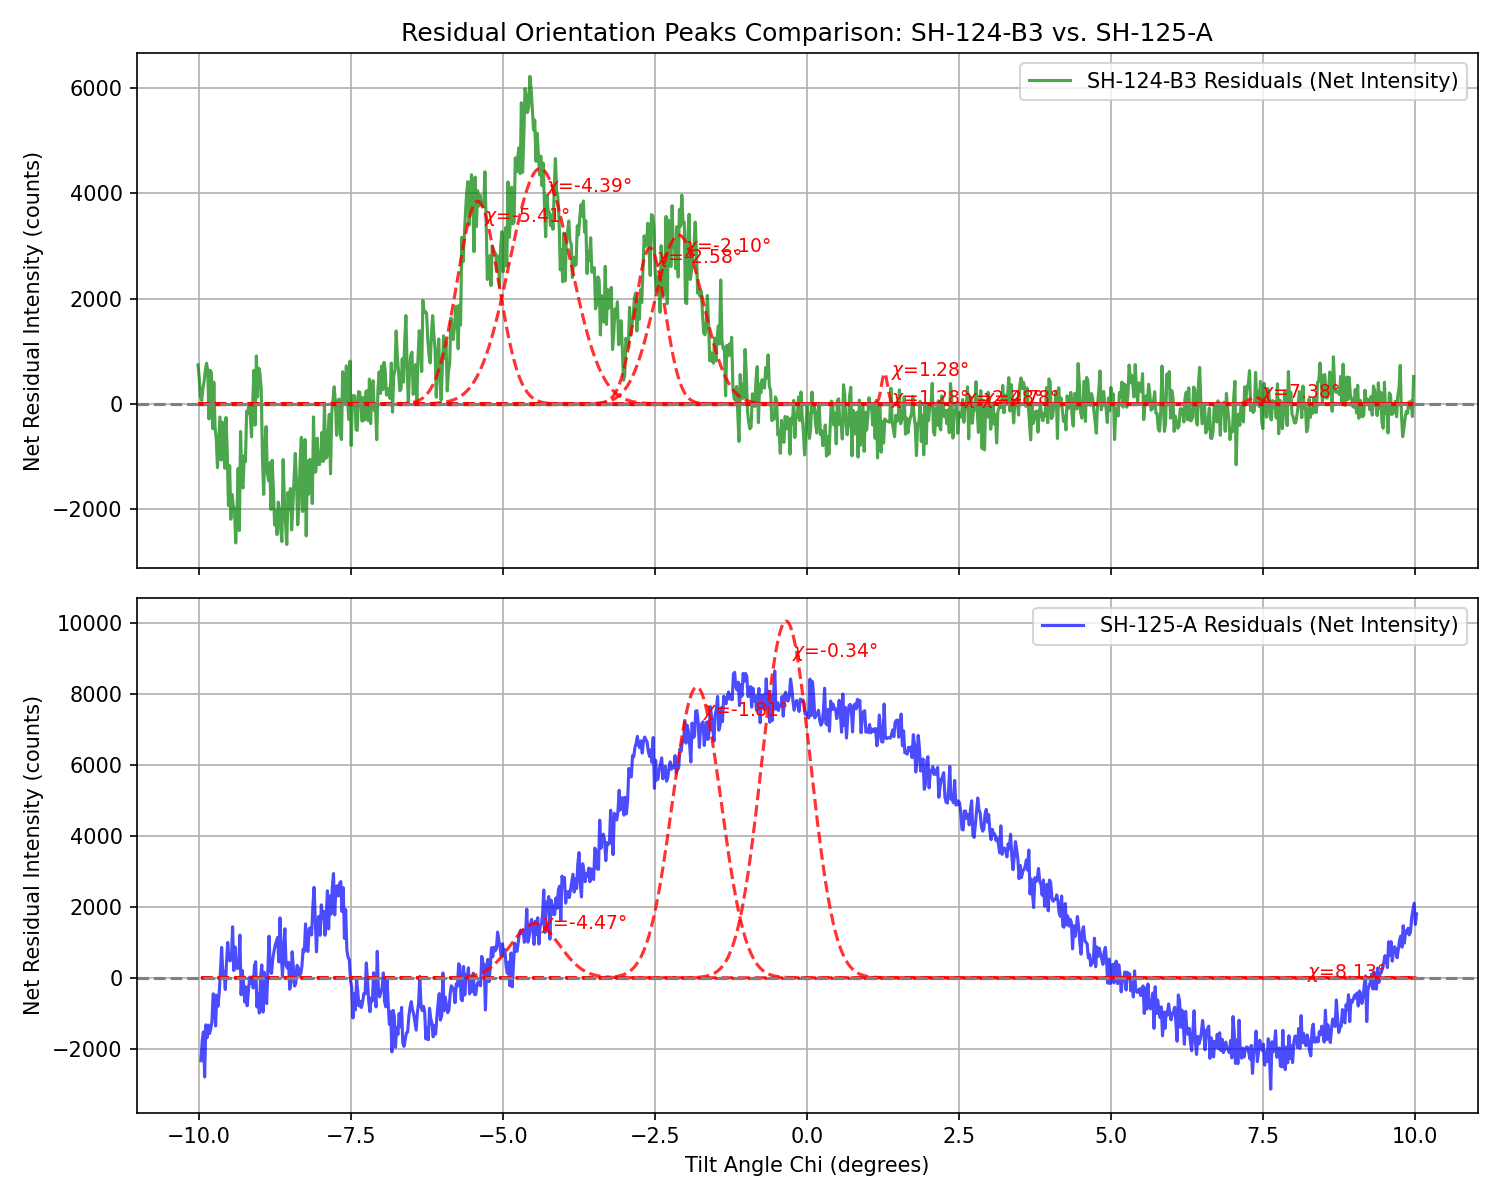
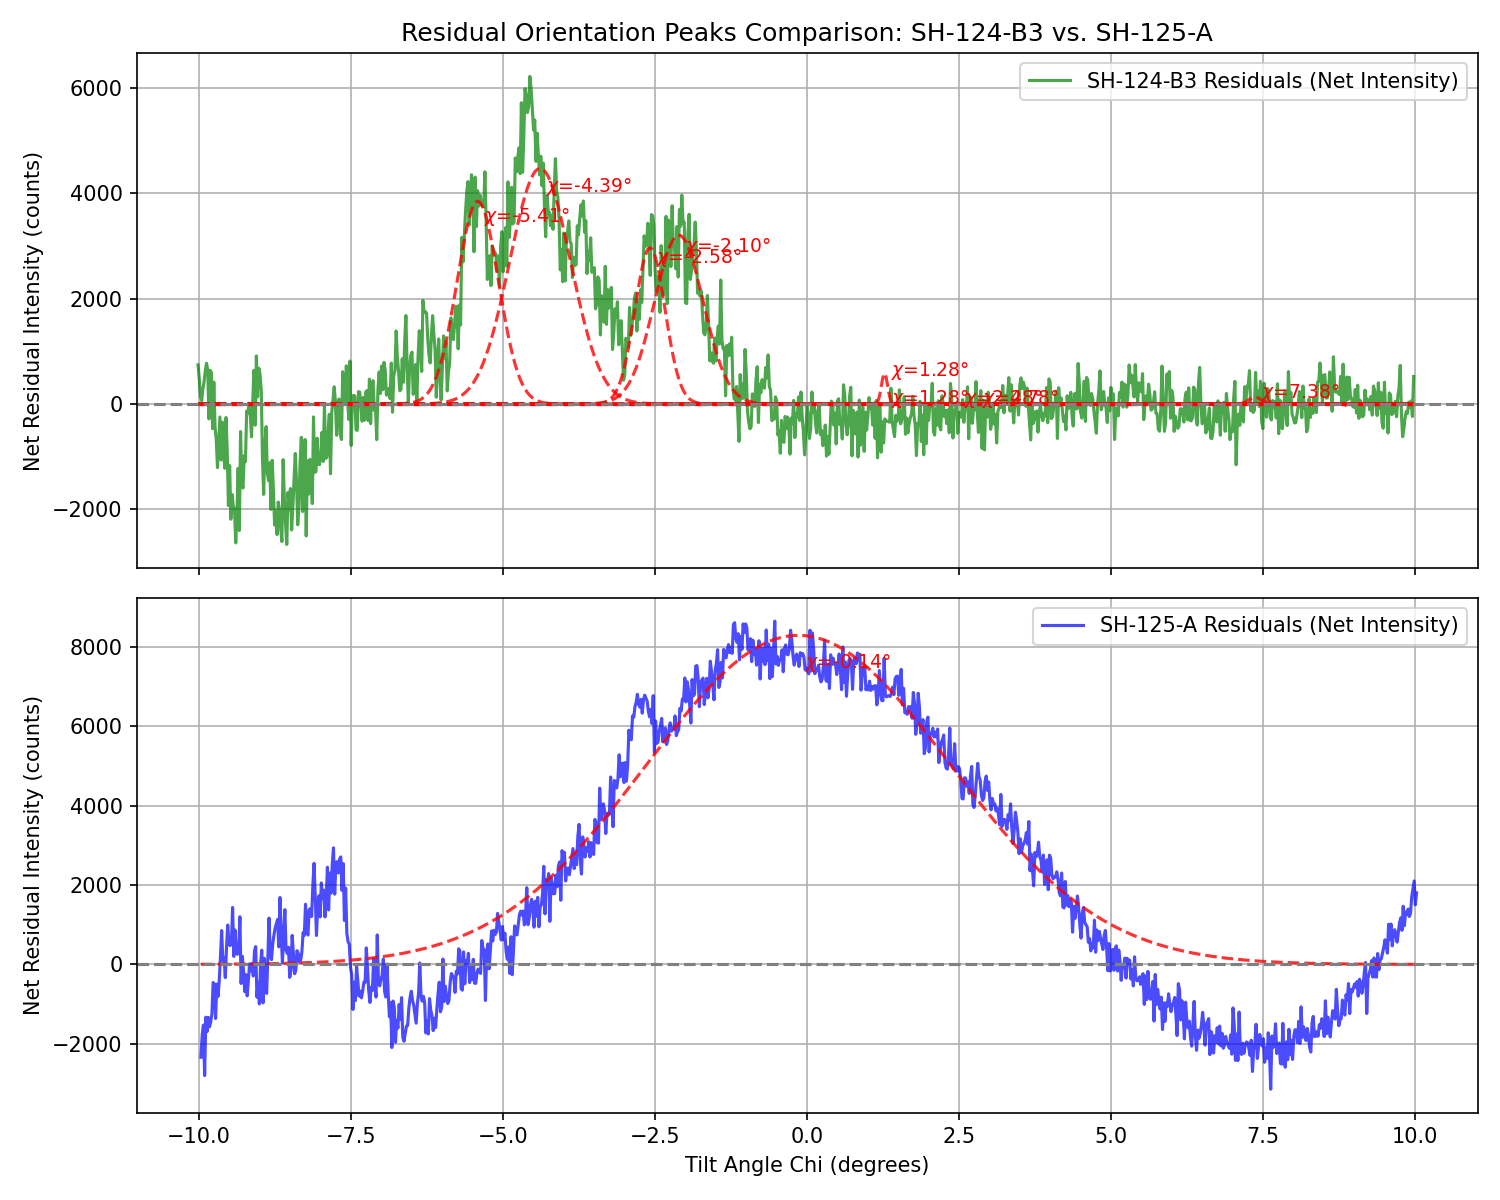
Fit single broad specular peak for SH-125-A, SH-125-G, and SH-104-1 in main scripts and pipeline

diff --git a/caco3_diffraction_pipeline.py b/caco3_diffraction_pipeline.py
@@ -298,13 +298,7 @@ def run_data_processing():
             "bg_mask_fn": lambda theta: (theta >= 4.0) & \
                                        ((theta < 9.0) | ((theta > 18.5) & (theta < 21.5)) | (theta > 23.5)),
             "peaks": [
-                {"name": "Peak 1 (Tilt)", "init_center": 9.97, "bounds": ([0, 9.0, 0.0425], [200000, 10.8, 0.276])},
-                {"name": "Peak 2a (Tilt)", "init_center": 11.70, "bounds": ([0, 11.7, 0.0425], [200000, 12.3, 0.276])},
-                {"name": "Peak 2b (Tilt)", "init_center": 12.77, "bounds": ([0, 12.4, 0.0425], [200000, 13.6, 0.276])},
-                {"name": "Peak 3 (Specular)", "init_center": 14.35, "bounds": ([0, 13.7, 0.0425], [200000, 15.0, 0.276])},
-                {"name": "Minor Peak A (Tilt)", "init_center": 17.10, "bounds": ([0, 16.8, 0.0425], [100000, 17.3, 0.276])},
-                {"name": "Minor Peak B (Tilt)", "init_center": 17.50, "bounds": ([0, 17.3, 0.0425], [100000, 17.9, 0.276])},
-                {"name": "Peak 4 (Tilt)", "init_center": 22.52, "bounds": ([0, 21.5, 0.0425], [200000, 23.2, 0.276])}
+                {"name": "Broad Specular Peak", "init_center": 13.70, "bounds": ([0, 11.0, 1.0], [200000, 16.0, 8.0])}
             ],
             "default_2theta": 29.3425
         },
@@ -313,13 +307,7 @@ def run_data_processing():
             "bg_mask_fn": lambda theta: (theta >= 4.0) & \
                                        ((theta < 9.0) | ((theta > 18.5) & (theta < 21.5)) | (theta > 23.5)),
             "peaks": [
-                {"name": "Peak 1 (Tilt)", "init_center": 9.97, "bounds": ([0, 9.0, 0.0425], [200000, 10.8, 0.276])},
-                {"name": "Peak 2a (Tilt)", "init_center": 11.70, "bounds": ([0, 11.0, 0.0425], [200000, 12.2, 0.276])},
-                {"name": "Peak 2b (Tilt)", "init_center": 12.77, "bounds": ([0, 12.3, 0.0425], [200000, 13.6, 0.276])},
-                {"name": "Peak 3 (Specular)", "init_center": 14.35, "bounds": ([0, 13.7, 0.0425], [200000, 15.0, 0.276])},
-                {"name": "Minor Peak A (Tilt)", "init_center": 17.10, "bounds": ([0, 16.8, 0.0425], [100000, 17.3, 0.276])},
-                {"name": "Minor Peak B (Tilt)", "init_center": 17.50, "bounds": ([0, 17.3, 0.0425], [100000, 17.9, 0.276])},
-                {"name": "Peak 4 (Tilt)", "init_center": 22.52, "bounds": ([0, 21.5, 0.0425], [200000, 23.2, 0.276])}
+                {"name": "Broad Specular Peak", "init_center": 13.70, "bounds": ([0, 11.0, 1.0], [200000, 16.0, 8.0])}
             ],
             "default_2theta": 29.3425
         },
@@ -328,13 +316,7 @@ def run_data_processing():
             "bg_mask_fn": lambda theta: (theta >= 4.0) & \
                                        ((theta < 9.0) | ((theta > 18.5) & (theta < 21.5)) | (theta > 23.5)),
             "peaks": [
-                {"name": "Peak 1 (Tilt)", "init_center": 9.97, "bounds": ([0, 9.0, 0.0425], [200000, 10.8, 0.276])},
-                {"name": "Peak 2a (Tilt)", "init_center": 11.70, "bounds": ([0, 11.0, 0.0425], [200000, 12.2, 0.276])},
-                {"name": "Peak 2b (Tilt)", "init_center": 12.77, "bounds": ([0, 12.3, 0.0425], [200000, 13.6, 0.276])},
-                {"name": "Peak 3 (Specular)", "init_center": 14.35, "bounds": ([0, 13.7, 0.0425], [200000, 15.0, 0.276])},
-                {"name": "Minor Peak A (Tilt)", "init_center": 17.10, "bounds": ([0, 16.8, 0.0425], [100000, 17.3, 0.276])},
-                {"name": "Minor Peak B (Tilt)", "init_center": 17.50, "bounds": ([0, 17.3, 0.0425], [100000, 17.9, 0.276])},
-                {"name": "Peak 4 (Tilt)", "init_center": 22.52, "bounds": ([0, 21.5, 0.0425], [200000, 23.2, 0.276])}
+                {"name": "Broad Specular Peak", "init_center": 13.70, "bounds": ([0, 11.0, 1.0], [200000, 16.0, 8.0])}
             ],
             "default_2theta": 29.3425
         }

diff --git a/scripts/Rocking_Curves/01_process_rocking_curves.py b/scripts/Rocking_Curves/01_process_rocking_curves.py
@@ -148,13 +148,7 @@ def process_rocking_curves():
             "bg_mask_fn": lambda theta: (theta >= 4.0) & \
                                        ((theta < 9.0) | ((theta > 18.5) & (theta < 21.5)) | (theta > 23.5)),
             "peaks": [
-                {"name": "Peak 1 (Tilt)", "init_center": 9.97, "bounds": ([0, 9.0, 0.0425], [200000, 10.8, 0.276])},
-                {"name": "Peak 2a (Tilt)", "init_center": 11.70, "bounds": ([0, 11.7, 0.0425], [200000, 12.3, 0.276])},
-                {"name": "Peak 2b (Tilt)", "init_center": 12.77, "bounds": ([0, 12.4, 0.0425], [200000, 13.6, 0.276])},
-                {"name": "Peak 3 (Specular)", "init_center": 14.35, "bounds": ([0, 13.7, 0.0425], [200000, 15.0, 0.276])},
-                {"name": "Minor Peak A (Tilt)", "init_center": 17.10, "bounds": ([0, 16.8, 0.0425], [100000, 17.3, 0.276])},
-                {"name": "Minor Peak B (Tilt)", "init_center": 17.50, "bounds": ([0, 17.3, 0.0425], [100000, 17.9, 0.276])},
-                {"name": "Peak 4 (Tilt)", "init_center": 22.52, "bounds": ([0, 21.5, 0.0425], [200000, 23.2, 0.276])}
+                {"name": "Broad Specular Peak", "init_center": 13.70, "bounds": ([0, 11.0, 1.0], [200000, 16.0, 8.0])}
             ],
             "default_2theta": 29.3425
         },
@@ -163,13 +157,7 @@ def process_rocking_curves():
             "bg_mask_fn": lambda theta: (theta >= 4.0) & \
                                        ((theta < 9.0) | ((theta > 18.5) & (theta < 21.5)) | (theta > 23.5)),
             "peaks": [
-                {"name": "Peak 1 (Tilt)", "init_center": 9.97, "bounds": ([0, 9.0, 0.0425], [200000, 10.8, 0.276])},
-                {"name": "Peak 2a (Tilt)", "init_center": 11.70, "bounds": ([0, 11.0, 0.0425], [200000, 12.2, 0.276])},
-                {"name": "Peak 2b (Tilt)", "init_center": 12.77, "bounds": ([0, 12.3, 0.0425], [200000, 13.6, 0.276])},
-                {"name": "Peak 3 (Specular)", "init_center": 14.35, "bounds": ([0, 13.7, 0.0425], [200000, 15.0, 0.276])},
-                {"name": "Minor Peak A (Tilt)", "init_center": 17.10, "bounds": ([0, 16.8, 0.0425], [100000, 17.3, 0.276])},
-                {"name": "Minor Peak B (Tilt)", "init_center": 17.50, "bounds": ([0, 17.3, 0.0425], [100000, 17.9, 0.276])},
-                {"name": "Peak 4 (Tilt)", "init_center": 22.52, "bounds": ([0, 21.5, 0.0425], [200000, 23.2, 0.276])}
+                {"name": "Broad Specular Peak", "init_center": 13.70, "bounds": ([0, 11.0, 1.0], [200000, 16.0, 8.0])}
             ],
             "default_2theta": 29.3425
         },
@@ -178,13 +166,7 @@ def process_rocking_curves():
             "bg_mask_fn": lambda theta: (theta >= 4.0) & \
                                        ((theta < 9.0) | ((theta > 18.5) & (theta < 21.5)) | (theta > 23.5)),
             "peaks": [
-                {"name": "Peak 1 (Tilt)", "init_center": 9.97, "bounds": ([0, 9.0, 0.0425], [200000, 10.8, 0.276])},
-                {"name": "Peak 2a (Tilt)", "init_center": 11.70, "bounds": ([0, 11.0, 0.0425], [200000, 12.2, 0.276])},
-                {"name": "Peak 2b (Tilt)", "init_center": 12.77, "bounds": ([0, 12.3, 0.0425], [200000, 13.6, 0.276])},
-                {"name": "Peak 3 (Specular)", "init_center": 14.35, "bounds": ([0, 13.7, 0.0425], [200000, 15.0, 0.276])},
-                {"name": "Minor Peak A (Tilt)", "init_center": 17.10, "bounds": ([0, 16.8, 0.0425], [100000, 17.3, 0.276])},
-                {"name": "Minor Peak B (Tilt)", "init_center": 17.50, "bounds": ([0, 17.3, 0.0425], [100000, 17.9, 0.276])},
-                {"name": "Peak 4 (Tilt)", "init_center": 22.52, "bounds": ([0, 21.5, 0.0425], [200000, 23.2, 0.276])}
+                {"name": "Broad Specular Peak", "init_center": 13.70, "bounds": ([0, 11.0, 1.0], [200000, 16.0, 8.0])}
             ],
             "default_2theta": 29.3425
         }

diff --git a/scripts/Rocking_Curves/03_compare_samples.py b/scripts/Rocking_Curves/03_compare_samples.py
@@ -85,21 +85,18 @@ for name, center, (t_min, t_max), bnd in zip(names_b3, peaks_b3_init, ranges_b3,
         print(f"Error fitting SH-124-B3 peak {name}: {e}")
 
 # 2. Fit SH-125-A peaks
-peaks_a_init = [9.97, 12.77, 14.35, 22.52]
-ranges_a = [(9.5, 10.5), (12.3, 13.3), (13.7, 15.0), (22.0, 23.0)]
+peaks_a_init = [13.7]
+ranges_a = [(8.0, 19.0)]
 bounds_a = [
-    ([0, 9.7, 0.05], [200000, 10.2, 0.4]),
-    ([0, 12.5, 0.05], [200000, 13.1, 0.4]),
-    ([0, 14.0, 0.05], [200000, 14.6, 0.4]),
-    ([0, 22.2, 0.05], [200000, 22.8, 0.3])
+    ([0, 11.0, 1.0], [200000, 16.0, 8.0])
 ]
-names_a = ["A_Peak_9.99", "A_Peak_12.81", "A_Peak_14.35", "A_Peak_22.53"]
+names_a = ["A_Broad_Specular_Peak"]
 results_a = []
 
 for name, center, (t_min, t_max), bnd in zip(names_a, peaks_a_init, ranges_a, bounds_a):
     mask = (theta_a >= t_min) & (theta_a <= t_max)
     try:
-        popt_g, _ = curve_fit(gaussian, theta_a[mask], net_a[mask], p0=[1000, center, 0.15], bounds=bnd)
+        popt_g, _ = curve_fit(gaussian, theta_a[mask], net_a[mask], p0=[2000, center, 4.0], bounds=bnd)
         h, t0, w = popt_g
         fwhm = 2.355 * w
         area = h * w * np.sqrt(2 * np.pi)

diff --git a/results/reports/synthesis_xrd_comprehensive_report.md b/results/reports/synthesis_xrd_comprehensive_report.md
@@ -102,20 +102,6 @@ The quantitative parameters of key active tilt reflections are summarised in Tab
 | **SH-124-B3** | 120 | Peak 1b (Tilt) | 10.819° | -3.881° | 0.596° | 2313.1 | 1466.9 | 1.152% |
 | **SH-124-B3** | 120 | Peak 2a (Tilt) | 11.700° | -3.000° | 0.613° | 2244.2 | 1464.6 | 1.243% |
 | **SH-124-B3** | 120 | Peak 2b (Tilt) | 13.167° | -1.533° | 0.604° | 2077.8 | 1334.8 | 1.272% |
-| **SH-125-A** | 60 | Peak 2a (Tilt) | 11.997° | -2.688° | 0.335° | 1090.6 | 388.3 | 0.423% |
-| **SH-125-A** | 60 | Peak 2b (Tilt) | 13.515° | -1.171° | 0.632° | 2392.5 | 1609.5 | 1.973% |
-| **SH-125-A** | 60 | Peak 3 (Specular) | 14.373° | -0.312° | 0.629° | 2342.9 | 1569.5 | 2.043% |
-| **SH-125-A** | 120 | Peak 2a (Tilt) | 11.827° | -2.886° | 0.000° | 0.0 | 0.0 | 0.000% |
-| **SH-125-A** | 120 | Peak 2b (Tilt) | 12.649° | -2.064° | 0.000° | 0.0 | 0.0 | 0.000% |
-| **SH-125-A** | 120 | Peak 3 (Specular) | 13.872° | -0.841° | 0.000° | 0.0 | 0.0 | 0.000% |
-| **SH-104-1** | 0 | Peak 2b (Tilt) | 13.600° | -1.116° | 0.636° | 941.8 | 638.0 | 1.088% |
-| **SH-104-1** | 0 | Peak 3 (Specular) | 14.975° | 0.259° | 0.646° | 3210.4 | 2207.3 | 4.136% |
-| **SH-104-1** | 90 | Peak 2b (Tilt) | 13.591° | -1.123° | 0.540° | 2761.4 | 1587.9 | 6.993% |
-| **SH-104-1** | 90 | Peak 3 (Specular) | 14.848° | 0.134° | 0.563° | 4397.7 | 2633.2 | 12.645% |
-| **SH-125-G** | 60 | Peak 2a (Tilt) | 12.169° | -2.519° | 0.650° | 1482.8 | 1025.8 | 1.018% |
-| **SH-125-G** | 60 | Peak 2b (Tilt) | 13.236° | -1.452° | 0.650° | 1593.7 | 1102.6 | 1.189% |
-| **SH-125-G** | 120 | Peak 2b (Tilt) | 13.600° | -1.092° | 0.650° | 990.9 | 685.6 | 24.363% |
-| **SH-125-G** | 120 | Peak 3 (Specular) | 14.970° | 0.278° | 0.650° | 2018.7 | 1396.6 | 54.523% |
 
 **Table 2:** Rocking curve peak parameters and tilt state metrics for representative active azimuthal orientations.
 